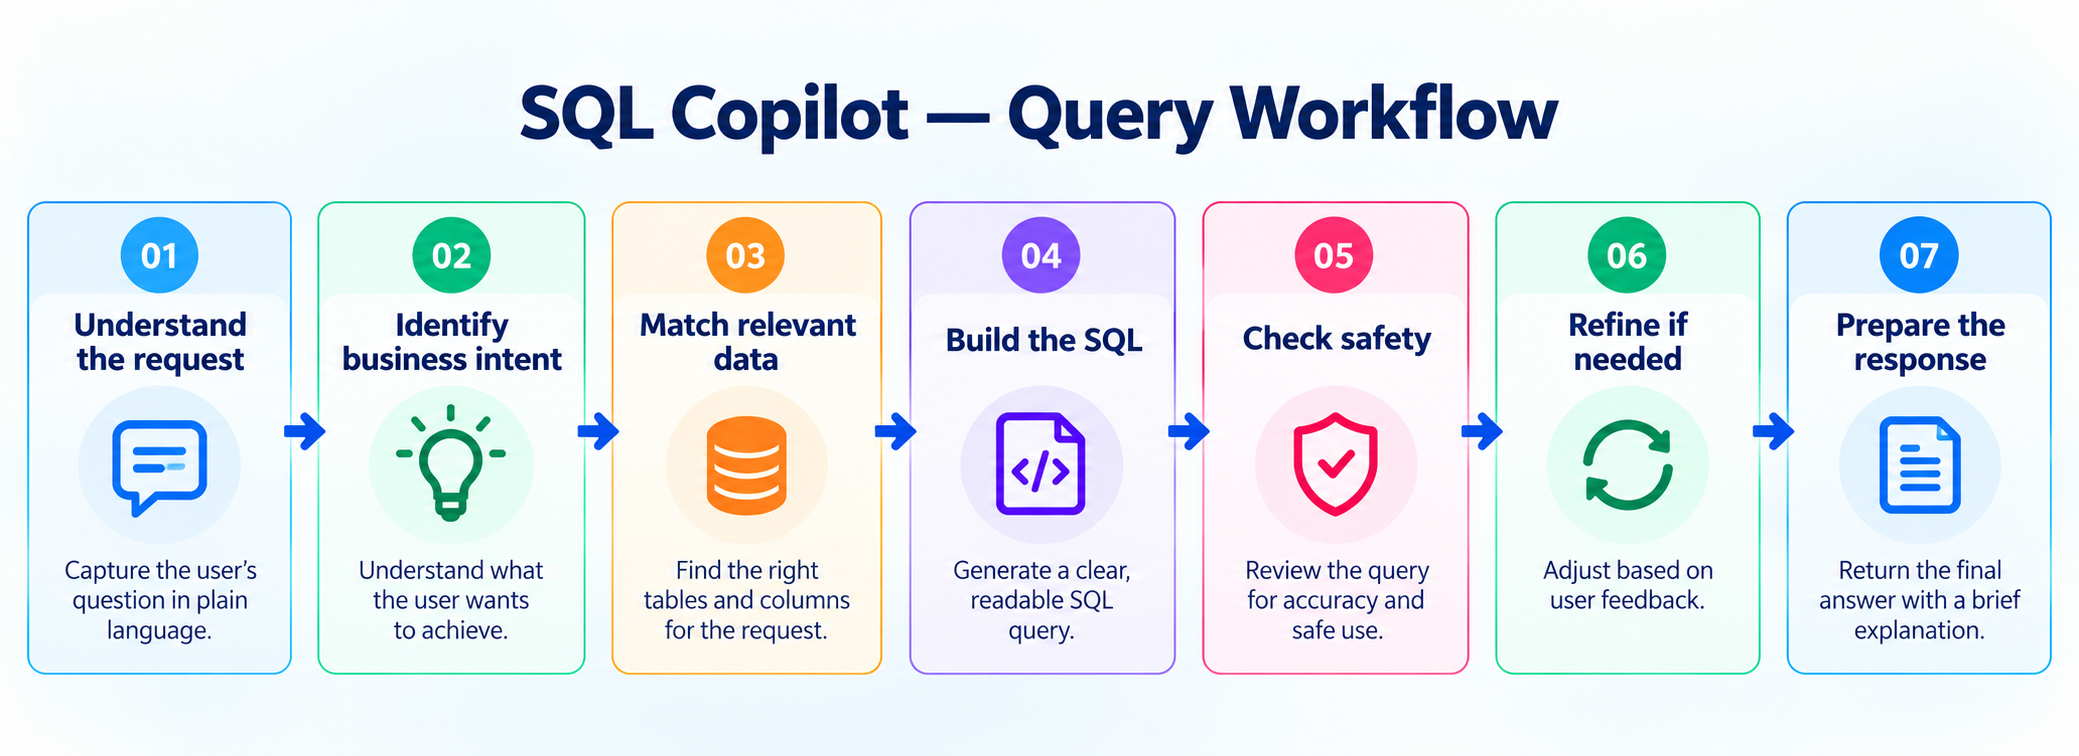
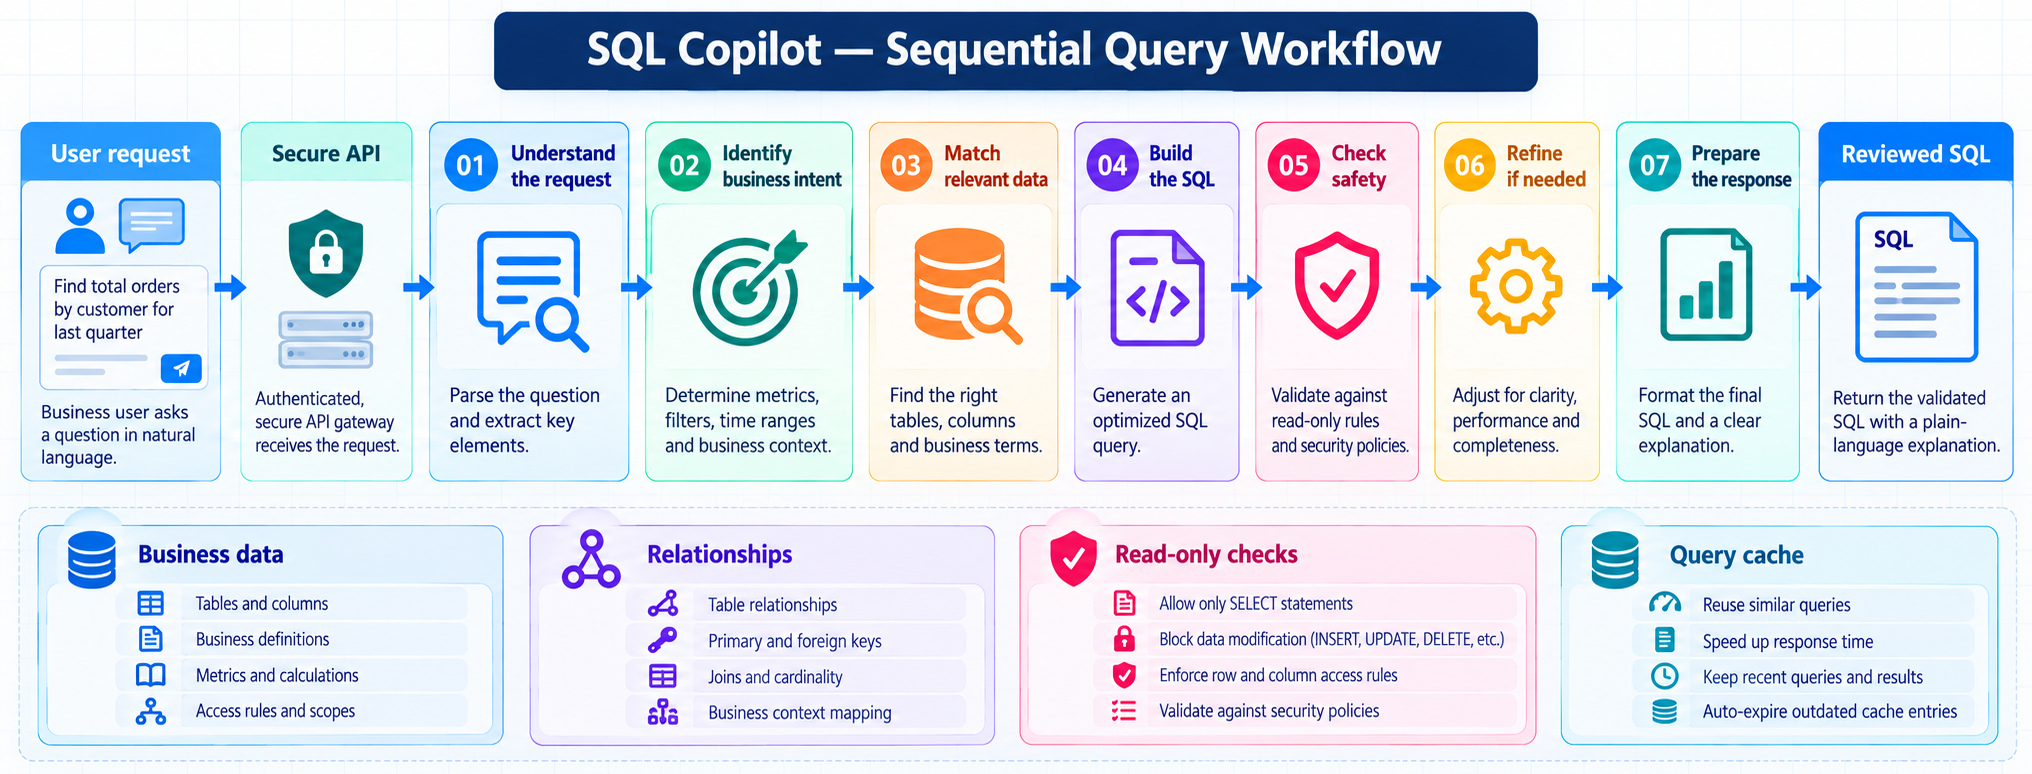
Improve query feedback and dynamic filters

diff --git a/frontend/app/signup/page.tsx b/frontend/app/signup/page.tsx
@@ -19,7 +19,20 @@ const securityQuestions = [
 ];
 
 function passwordScore(password: string) {
-  return [password.length >= 8, /[a-z]/.test(password), /[A-Z]/.test(password), /\d/.test(password), /[^A-Za-z0-9]/.test(password)].filter(Boolean).length * 20;
+  if (!password) return 0;
+
+  // Score the actual composition instead of awarding a fixed 20% per rule.
+  // This keeps short or repetitive passwords from looking strong.
+  let score = Math.min(30, password.length * 3);
+  if (/[a-z]/.test(password)) score += 10;
+  if (/[A-Z]/.test(password)) score += 10;
+  if (/\d/.test(password)) score += 10;
+  if (/[^A-Za-z0-9]/.test(password)) score += 15;
+  if (new Set(password).size >= 6) score += 10;
+  if (password.length >= 12) score += 10;
+  if (/(.)\1{2,}/.test(password)) score -= 15;
+
+  return Math.max(0, Math.min(100, score));
 }
 
 export default function SignupPage() {
@@ -39,7 +52,7 @@ export default function SignupPage() {
     event.preventDefault();
     if (name.trim().length < 2) return reject("Enter your full name");
     if (!/^[^@\s]+@[^@\s]+\.[^@\s]+$/.test(email)) return reject("Enter a valid email address");
-    if (strength < 80) return reject("Use a stronger password with uppercase, lowercase, and a number");
+    if (strength < 80) return reject("Use a stronger password with uppercase, lowercase, a number, and a symbol");
     if (password !== confirmPassword) return reject("The passwords do not match");
     if (securityAnswer.trim().length < 2) return reject("Answer the security question for account recovery");
     setLoading(true);

diff --git a/frontend/features/store/use-toast-store.ts b/frontend/features/store/use-toast-store.ts
@@ -7,6 +7,8 @@ export type Toast = {
   title: string;
   description?: string;
   variant?: "default" | "success" | "warning" | "error";
+  /** Optional lifetime in milliseconds. Short-lived progress confirmations should not need manual dismissal. */
+  duration?: number;
 };
 
 type ToastState = {
@@ -23,7 +25,7 @@ export const useToastStore = create<ToastState>((set, get) => ({
       toasts: [{ ...toast, id }, ...state.toasts].slice(0, 4)
     }));
     if (typeof window !== "undefined") {
-      window.setTimeout(() => get().dismissToast(id), 5_000);
+      window.setTimeout(() => get().dismissToast(id), toast.duration ?? 5_000);
     }
   },
   dismissToast: (id) => set((state) => ({ toasts: state.toasts.filter((toast) => toast.id !== id) }))

diff --git a/frontend/components/copilot/copilot-chat.tsx b/frontend/components/copilot/copilot-chat.tsx
@@ -144,7 +144,8 @@ export function CopilotChat() {
       pushToast({
         title: response.insights.valid ? "SQL generated" : "Clarification needed",
         description: response.insights.valid ? `Confidence ${response.insights.confidence}%` : response.message,
-        variant: response.insights.valid ? "success" : "warning"
+        variant: response.insights.valid ? "success" : "warning",
+        duration: 3_000
       });
     },
     onError: (error) => {

diff --git a/agentic/enterprise_copilot.py b/agentic/enterprise_copilot.py
@@ -42,7 +42,7 @@ except ImportError:  # pragma: no cover
 
 
 TokenSet = set[str]
-QUERY_CACHE_VERSION = "enterprise-v11"
+QUERY_CACHE_VERSION = "enterprise-v12"
 
 
 def _tokens(text: str) -> list[str]:
@@ -353,7 +353,10 @@ class QueryCacheLayer:
             )
 
     def _key(self, query: str) -> str:
-        return f"{QUERY_CACHE_VERSION}:{self.namespace}:{query.strip().lower()}"
+        # Equivalent requests should use the same cached reviewed result even
+        # when a user pastes them with different whitespace.
+        normalised = re.sub(r"\s+", " ", query).strip().lower()
+        return f"{QUERY_CACHE_VERSION}:{self.namespace}:{normalised}"
 
 
 class SchemaGraphEngine:
@@ -554,8 +557,57 @@ class EntityExtractionAgent:
                 for phrase, value in values.items():
                     if re.search(rf"(?<!\w){re.escape(phrase.replace('_', ' '))}(?!\w)", q):
                         filters.append({"table": table, "column": column, "operator": "=", "value": value})
+        filters.extend(self._contextual_text_filters(query, raw, filters))
         measures = [term for term in canonical if term in {"salary", "amount", "budget", "hours", "revenue"}]
         return EntityExtraction(raw, canonical, [], [], measures, filters, [])
+
+    @staticmethod
+    def _contextual_text_filters(
+        query: str,
+        raw_terms: list[str],
+        existing_filters: list[dict[str, str]],
+    ) -> list[dict[str, str]]:
+        """Capture a named value even when it is not in the example value list.
+
+        Example data can never contain every real department or business unit.  A
+        request such as "employee details working in TCS" still has a clear
+        schema anchor (employees.department), so it should produce a safe
+        read-only query rather than be rejected merely because "TCS" was not
+        preconfigured as an example value.
+        """
+        text = re.sub(r"\s+", " ", query.strip())
+        lowered_terms = set(raw_terms)
+        employee_context = bool(
+            lowered_terms & {"employee", "employees", "staff", "worker", "workers"}
+        )
+        associate_context = bool(
+            lowered_terms & {"associate", "associates", "consultant", "consultants"}
+        )
+        if not (employee_context or associate_context):
+            return []
+
+        match = re.search(
+            r"\b(?:working|work|employed)\s+(?:in|at|for|with)\s+(?:the\s+)?"
+            r"(?P<value>[A-Za-z0-9][A-Za-z0-9& .'-]{0,79}?)(?=$|[?.!,;]|\s+(?:with|where|who|that|and|by|from|on|during|this|last)\b)",
+            text,
+            flags=re.IGNORECASE,
+        )
+        if not match:
+            return []
+
+        value = re.sub(r"\s+", " ", match.group("value")).strip(" .,'\"")
+        if len(value) < 2 or value.lower() in {"the", "a", "an", "company", "organization"}:
+            return []
+        table, column = (
+            ("associates", "business_unit")
+            if associate_context and not employee_context
+            else ("employees", "department")
+        )
+        if any(item.get("table") == table and item.get("column") == column for item in existing_filters):
+            return []
+        return [{"table": table, "column": column, "operator": "=", "value": value.lower()}]
+
+
 class SchemaLinkingEngine:
     def __init__(
         self,
@@ -1577,9 +1629,10 @@ class SQLGenerationAgent:
                     end = f"{start} + INTERVAL '{interval}'"
                 filters.append(f"{alias}.{column} >= {start} AND {alias}.{column} < {end}")
             else:
+                value = str(item.get("value", "")).lower().replace("'", "''")
                 filters.append(
                     f"LOWER({alias}.{item['column']}) {item.get('operator', '=')} "
-                    f"'{str(item.get('value', '')).lower()}'"
+                    f"'{value}'"
                 )
         if filters:
             lines.append("WHERE " + " AND ".join(filters))

diff --git a/tests/test_enterprise_copilot.py b/tests/test_enterprise_copilot.py
@@ -111,6 +111,16 @@ def test_employee_name_and_department_selects_only_requested_columns(tmp_path: P
     assert "e.status" not in result.sql
 
 
+def test_employee_details_with_an_unlisted_business_value_stays_schema_grounded(tmp_path: Path) -> None:
+    result = _copilot(tmp_path).run("Show employee details working in TCS", allow_cache=False)
+
+    assert result.valid is True
+    assert result.clarification_required is False
+    assert "FROM employees e" in result.sql
+    assert "LOWER(e.department) = 'tcs'" in result.sql
+    assert result.confidence >= 70
+
+
 def test_customer_details_selects_default_detail_columns(tmp_path: Path) -> None:
     copilot = EnterpriseSQLCopilot(
         tables={"clients"},
